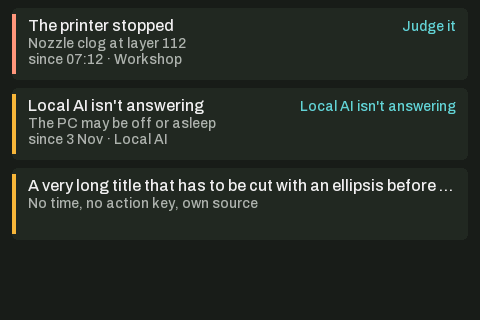
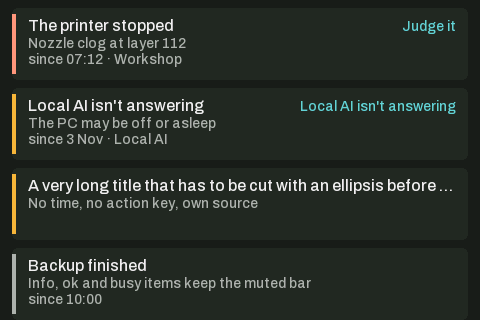
NeedsRow: add NeedTone::Info, the quiet muted bar the web keeps for info, ok and busy

Changed region(s): [[0.0, 0.7812, 0.6562, 0.9688]]

diff --git a/tests/display/harness.cpp b/tests/display/harness.cpp
@@ -120,6 +120,7 @@ static void sceneLampRowB(MemCanvas& c) {
 static_assert(NeedsRow::toneColor(NeedTone::Warn) == UI_COLOR_WARN, "a warn need is amber");
 static_assert(NeedsRow::toneColor(NeedTone::Attention) == UI_COLOR_WARN, "an attention need is amber");
 static_assert(NeedsRow::toneColor(NeedTone::Bad) == UI_COLOR_BAD, "a bad need is red");
+static_assert(NeedsRow::toneColor(NeedTone::Info) == UI_COLOR_MUTED, "an info need is the quiet muted bar, as on the web");
 
 static void sceneNeedsRow(MemCanvas& c) {
   const uint32_t n = kNow.epoch;
@@ -132,6 +133,8 @@ static void sceneNeedsRow(MemCanvas& c) {
   NeedsRow::draw(c, Rect{12, 8, 456, NeedsRow::kHeight}, a, kNow, "Pi Hub");
   NeedsRow::draw(c, Rect{12, 88, 456, NeedsRow::kHeight}, b, kNow, "Pi Hub");
   NeedsRow::draw(c, Rect{12, 168, 456, NeedsRow::kHeight}, d, kNow, "Pi Hub");
+  NeedItem e; e.source = "Pi Hub"; e.tone = NeedTone::Info; e.title = "Backup finished"; e.detail = "Info, ok and busy items keep the muted bar"; e.asOf = n - 40 * 60;
+  NeedsRow::draw(c, Rect{12, 248, 456, NeedsRow::kHeight}, e, kNow, "Pi Hub");
 }
 
 static void sceneMeter(MemCanvas& c) {

diff --git a/dist/display/needsrow.h b/dist/display/needsrow.h
@@ -11,7 +11,9 @@
 
 namespace ui {
 
-enum class NeedTone : uint8_t { Bad, Attention, Warn };
+// Bad is red, Attention and Warn amber; Info is the quiet tone (info, ok and busy items), the muted bar the web keeps
+// for a `.ui-need` with no coloured data-tone.
+enum class NeedTone : uint8_t { Bad, Attention, Warn, Info };
 
 struct NeedItem {
   const char* source = nullptr;     // the system that reported it ("Pi Hub", "Local AI"); fills {name} in a phrase
@@ -27,7 +29,7 @@ struct NeedsRow {
   static constexpr int kHeight = 72;
 
   static constexpr uint16_t toneColor(NeedTone t) {
-    return t == NeedTone::Bad ? UI_COLOR_BAD : UI_COLOR_WARN;
+    return t == NeedTone::Bad ? UI_COLOR_BAD : t == NeedTone::Info ? UI_COLOR_MUTED : UI_COLOR_WARN;
   }
   static constexpr bool hit(const Rect& r, int px, int py) { return r.contains(px, py); }
 

diff --git a/src/display/needsrow.h b/src/display/needsrow.h
@@ -10,7 +10,9 @@
 
 namespace ui {
 
-enum class NeedTone : uint8_t { Bad, Attention, Warn };
+// Bad is red, Attention and Warn amber; Info is the quiet tone (info, ok and busy items), the muted bar the web keeps
+// for a `.ui-need` with no coloured data-tone.
+enum class NeedTone : uint8_t { Bad, Attention, Warn, Info };
 
 struct NeedItem {
   const char* source = nullptr;     // the system that reported it ("Pi Hub", "Local AI"); fills {name} in a phrase
@@ -26,7 +28,7 @@ struct NeedsRow {
   static constexpr int kHeight = 72;
 
   static constexpr uint16_t toneColor(NeedTone t) {
-    return t == NeedTone::Bad ? UI_COLOR_BAD : UI_COLOR_WARN;
+    return t == NeedTone::Bad ? UI_COLOR_BAD : t == NeedTone::Info ? UI_COLOR_MUTED : UI_COLOR_WARN;
   }
   static constexpr bool hit(const Rect& r, int px, int py) { return r.contains(px, py); }
 

diff --git a/dist/display/README.md b/dist/display/README.md
@@ -90,7 +90,7 @@ one the part is drawn on: `UI_COLOR_BG`, `UI_COLOR_SURFACE` or `UI_COLOR_SURFACE
 | **AgeLine** (K5, K6) | `AgeLine::draw(c, x, baseline, reading, clock, bg)` returns its width; `AgeLine::text(...)` | 14 px. Live ages are muted; anything else is in the unknown colour. |
 | **Faceplate** (K5, K6) | `Faceplate::draw(c, rect, caption, reading, tone, word, halo, clock)`; `Faceplate::kMinHeight` 124 | The screen's one panel: caption and lamp across the top, the value in the readout face with its unit, the age. Not live: the lamp is the unknown one saying "Unknown", a missing value reads "Unknown", a stale value stays in muted text. |
 | **LampRow** (K5, K6) | `LampRow{label, reading, tone, action}`; `.draw(c, rect, clock, bg)`; `.actionRect(c, rect)`; `.hitAction(c, rect, x, y)`; `LampRow::kHeight` 56 | Lamp, label, value, and at most one action (a plain button, 48 px high, 8 px from the next row's). |
-| **NeedsRow** (K5) | `NeedItem{source, tone, title, detail, asOf, area, actionKey}`; `NeedsRow::draw(c, rect, item, clock, self)`; `NeedsRow::hit(rect, x, y)`; `NeedsRow::kHeight` 72 | As `ui-need`: tone bar (red for `Bad`, amber for `Attention` and `Warn`, never grey), title, detail, "since 10:32 . Area", and the action phrase from `needs.h`. The whole row is the target. |
+| **NeedsRow** (K5) | `NeedItem{source, tone, title, detail, asOf, area, actionKey}`; `NeedsRow::draw(c, rect, item, clock, self)`; `NeedsRow::hit(rect, x, y)`; `NeedsRow::kHeight` 72 | As `ui-need`: tone bar (red for `Bad`, amber for `Attention` and `Warn`, muted grey for `Info`, the quiet tone for info, ok and busy items, as the web's default `ui-need` bar), title, detail, "since 10:32 . Area", and the action phrase from `needs.h`. The whole row is the target. |
 | **Meter** (K5) | `Meter::draw(c, rect, reading, fraction)` returns whether it drew | Only for a real fraction (0 to 1) of a live or stale reading; otherwise draws nothing and returns false, and the screen shows the age or "Unknown". Stale is muted. No indeterminate bar. |
 | **Frame** (K5) | `Frame::draw(c, title, Level::One or Two, subtitle = nullptr, subtitleColor)`; `Frame::hit(level, x, y)` returns None or Back (Home is the tab bar's; `FrameHit::Home` stays in the enum but is never returned); `Frame::content(tabBarHeight)` | The 48 px header on `bar`. `Level::Two` is one step in: Back at the top left (88 x 48), always there, the title after it. `Level::One` is a top-level screen whose navigation is the tab bar: no Back and no Home in the header, the title (and subtitle) start at the left edge. Home is always the tab bar's Home tab, never a header button. There is no third level. Draw in `content(kTabBarH)` (480 x 224), or `content(0)` without the device's tab bar. |
 | **Stepper** (K9) | `Stepper::draw(c, rect, value, unit, canDec, canInc, bg)`; `Stepper::hit(rect, value, canDec, canInc, x, y)` returns None, Dec or Inc | For a number. 48 px keys with the value centred. A null value (unreadable) shows "Unknown" and disables both keys. |

diff --git a/src/display/README.md b/src/display/README.md
@@ -89,7 +89,7 @@ one the part is drawn on: `UI_COLOR_BG`, `UI_COLOR_SURFACE` or `UI_COLOR_SURFACE
 | **AgeLine** (K5, K6) | `AgeLine::draw(c, x, baseline, reading, clock, bg)` returns its width; `AgeLine::text(...)` | 14 px. Live ages are muted; anything else is in the unknown colour. |
 | **Faceplate** (K5, K6) | `Faceplate::draw(c, rect, caption, reading, tone, word, halo, clock)`; `Faceplate::kMinHeight` 124 | The screen's one panel: caption and lamp across the top, the value in the readout face with its unit, the age. Not live: the lamp is the unknown one saying "Unknown", a missing value reads "Unknown", a stale value stays in muted text. |
 | **LampRow** (K5, K6) | `LampRow{label, reading, tone, action}`; `.draw(c, rect, clock, bg)`; `.actionRect(c, rect)`; `.hitAction(c, rect, x, y)`; `LampRow::kHeight` 56 | Lamp, label, value, and at most one action (a plain button, 48 px high, 8 px from the next row's). |
-| **NeedsRow** (K5) | `NeedItem{source, tone, title, detail, asOf, area, actionKey}`; `NeedsRow::draw(c, rect, item, clock, self)`; `NeedsRow::hit(rect, x, y)`; `NeedsRow::kHeight` 72 | As `ui-need`: tone bar (red for `Bad`, amber for `Attention` and `Warn`, never grey), title, detail, "since 10:32 . Area", and the action phrase from `needs.h`. The whole row is the target. |
+| **NeedsRow** (K5) | `NeedItem{source, tone, title, detail, asOf, area, actionKey}`; `NeedsRow::draw(c, rect, item, clock, self)`; `NeedsRow::hit(rect, x, y)`; `NeedsRow::kHeight` 72 | As `ui-need`: tone bar (red for `Bad`, amber for `Attention` and `Warn`, muted grey for `Info`, the quiet tone for info, ok and busy items, as the web's default `ui-need` bar), title, detail, "since 10:32 . Area", and the action phrase from `needs.h`. The whole row is the target. |
 | **Meter** (K5) | `Meter::draw(c, rect, reading, fraction)` returns whether it drew | Only for a real fraction (0 to 1) of a live or stale reading; otherwise draws nothing and returns false, and the screen shows the age or "Unknown". Stale is muted. No indeterminate bar. |
 | **Frame** (K5) | `Frame::draw(c, title, Level::One or Two, subtitle = nullptr, subtitleColor)`; `Frame::hit(level, x, y)` returns None or Back (Home is the tab bar's; `FrameHit::Home` stays in the enum but is never returned); `Frame::content(tabBarHeight)` | The 48 px header on `bar`. `Level::Two` is one step in: Back at the top left (88 x 48), always there, the title after it. `Level::One` is a top-level screen whose navigation is the tab bar: no Back and no Home in the header, the title (and subtitle) start at the left edge. Home is always the tab bar's Home tab, never a header button. There is no third level. Draw in `content(kTabBarH)` (480 x 224), or `content(0)` without the device's tab bar. |
 | **Stepper** (K9) | `Stepper::draw(c, rect, value, unit, canDec, canInc, bg)`; `Stepper::hit(rect, value, canDec, canInc, x, y)` returns None, Dec or Inc | For a number. 48 px keys with the value centred. A null value (unreadable) shows "Unknown" and disables both keys. |
